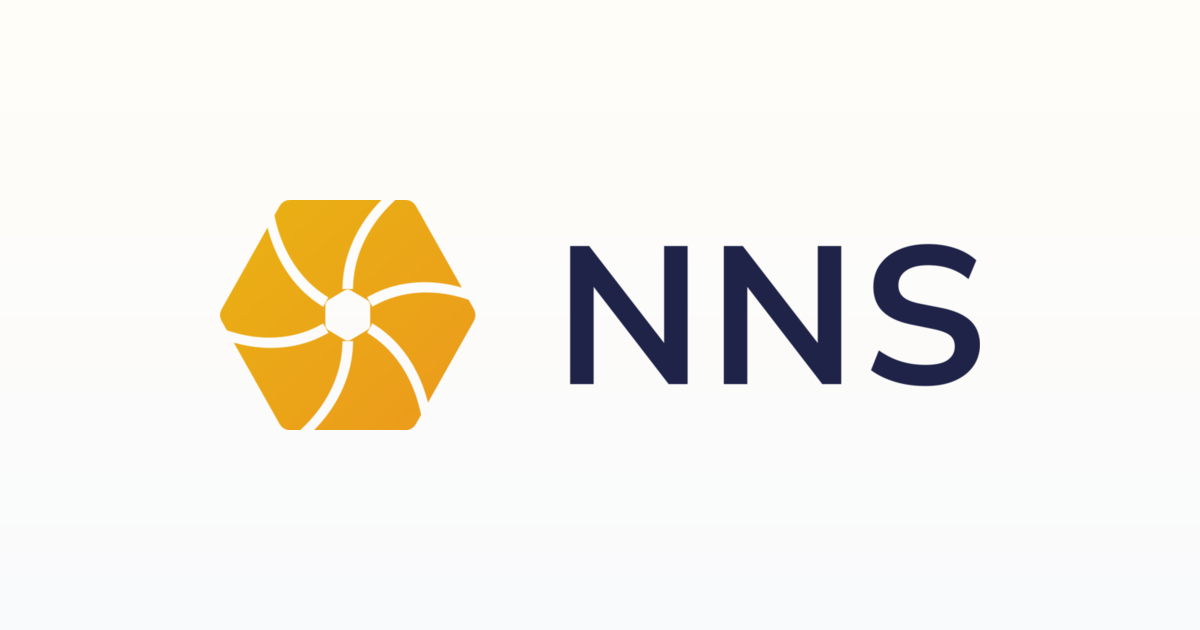
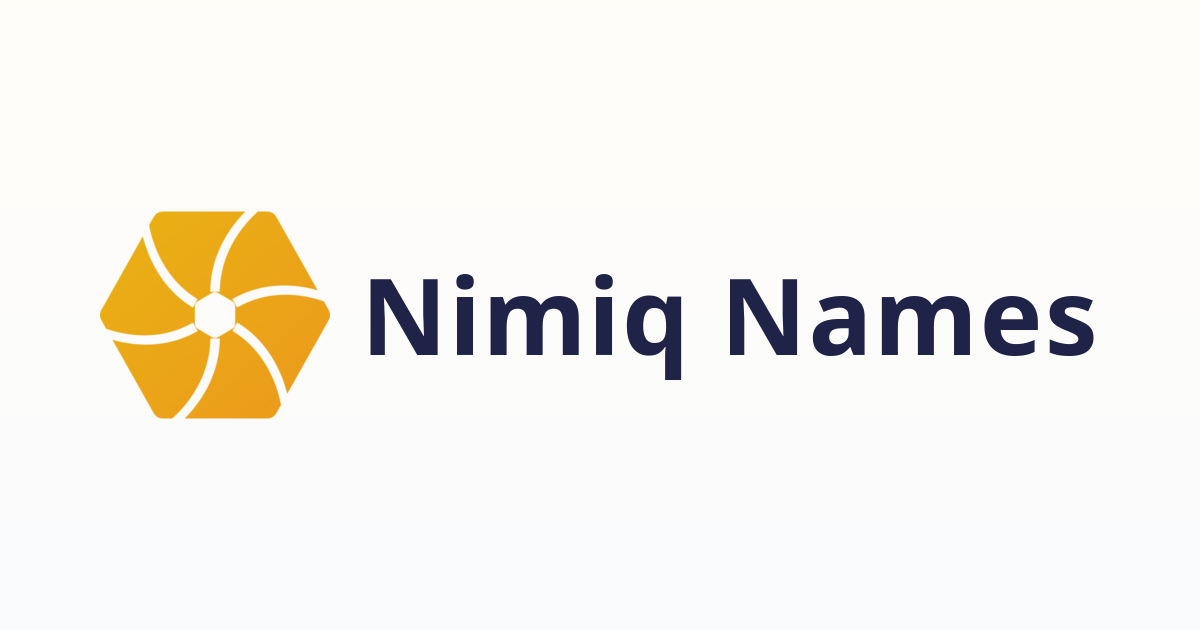
app: the social card says Nimiq Names, not NNS
The card a pasted link draws was the old lockup — the mark beside the
letters NNS — which the site stopped using when the product became Nimiq
Names. The new card is the mark beside those two words, set in Noto Sans
Bold, the recipe alongside the others in brand.ts. Flattened, because
WhatsApp mishandles an alpha channel.

The image URL gains ?v=2 in index.html and in the edge's payment card:
Telegram and WhatsApp hold a card's image by URL for days, so a new file
at the old URL would keep drawing the old lockup.

Changed region(s): [[0.0617, 0.3016, 0.925, 0.6937]]

diff --git a/packages/app/src/lib/brand.ts b/packages/app/src/lib/brand.ts
@@ -1,9 +1,10 @@
 /**
  * The logo, as it ships in `public/brand`. The site's mark is the hexagon
  * alone: the product is **Nimiq Names**, and the letters NNS name the
- * protocol it speaks (Kike, 2026-09-13). The full lockup — mark plus those
- * letters — is the social card, `brand/og-image.png`, where the protocol's
- * name does belong.
+ * protocol it speaks (Kike, 2026-09-13). The social card,
+ * `brand/og-image.png`, is the mark beside the words "Nimiq Names" — the
+ * NNS lockup stood there for a day and was the one place the letters still
+ * showed (Kike, 2026-09-14).
  *
  * A path rather than an import: these are public files, and one name typed
  * twice in two screens is a 404 nobody sees until a deploy.
@@ -17,8 +18,14 @@
  *   # Apple composites its icon on black, so that one is flattened on white:
  *   magick public/brand/nns-mark.png -resize 160x160 -background white \
  *     -gravity center -extent 180x180 -alpha remove public/brand/apple-touch-icon.png
- *   magick $SRC -trim +repage -resize 760x -background none -gravity center -extent 1200x630 \
- *     \( -size 1200x630 gradient:'#FFFDF8-#F9FAFC' \) -compose DstOver -composite \
- *     public/brand/og-image.png
+ *   # The card: the mark and the words, one block, centred on the gradient.
+ *   # Noto Sans Bold stands in for the system-ui stack the app renders in;
+ *   # #1F2348 is the lockup's letter colour. Flattened: WhatsApp mishandles alpha.
+ *   magick public/brand/nns-mark.png -resize 230x230 mark.png
+ *   magick -background none -fill '#1F2348' -font Noto-Sans-Bold -pointsize 106 -kerning 2 \
+ *     label:'Nimiq Names' words.png
+ *   magick mark.png words.png -background none -gravity center +smush 40 block.png
+ *   magick -size 1200x630 gradient:'#FFFDF8-#F9FAFC' block.png -gravity center -composite \
+ *     -alpha off public/brand/og-image.png
  */
 export const BRAND_MARK = '/brand/nns-mark.png'

diff --git a/packages/app/index.html b/packages/app/index.html
@@ -8,8 +8,8 @@
     <meta name="description" content="One name instead of an address. Register and manage your name on Nimiq — on-chain, self-custody, no smart contracts." />
 
     <!-- The mark alone, not the NNS lockup: the site is Nimiq Names, NNS is the
-         protocol it speaks. The lockup is the social card, where the protocol's
-         name belongs. Apple composites its icon on black, so that one is flattened. -->
+         protocol it speaks. Apple composites its icon on black, so that one is
+         flattened. -->
     <link rel="icon" type="image/png" sizes="32x32" href="/brand/favicon-32.png" />
     <link rel="icon" type="image/png" sizes="192x192" href="/brand/favicon-192.png" />
     <link rel="apple-touch-icon" href="/brand/apple-touch-icon.png" />
@@ -24,11 +24,11 @@
     <meta property="og:url" content="https://nimiqnames.com/" />
     <meta property="og:title" content="Nimiq Names — your name on Nimiq" />
     <meta property="og:description" content="One name instead of an address. Register and manage your name on Nimiq — on-chain, self-custody, no smart contracts." />
-    <meta property="og:image" content="https://nimiqnames.com/brand/og-image.png" />
+    <meta property="og:image" content="https://nimiqnames.com/brand/og-image.png?v=2" />
     <meta property="og:image:type" content="image/png" />
     <meta property="og:image:width" content="1200" />
     <meta property="og:image:height" content="630" />
-    <meta property="og:image:alt" content="Nimiq Names" />
+    <meta property="og:image:alt" content="Nimiq Names — the mark and the name" />
 
     <!-- Twitter falls back to the og: tags for everything but the card shape.
          WhatsApp does not read these at all; Telegram reads whichever it
